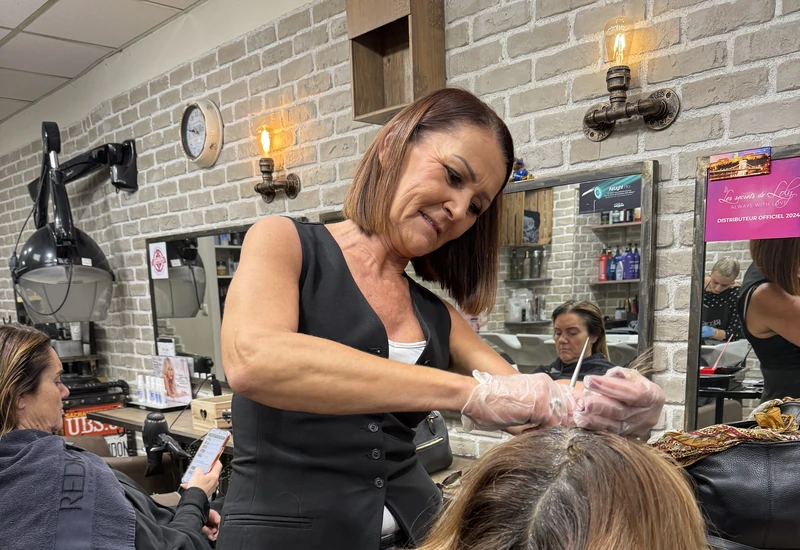
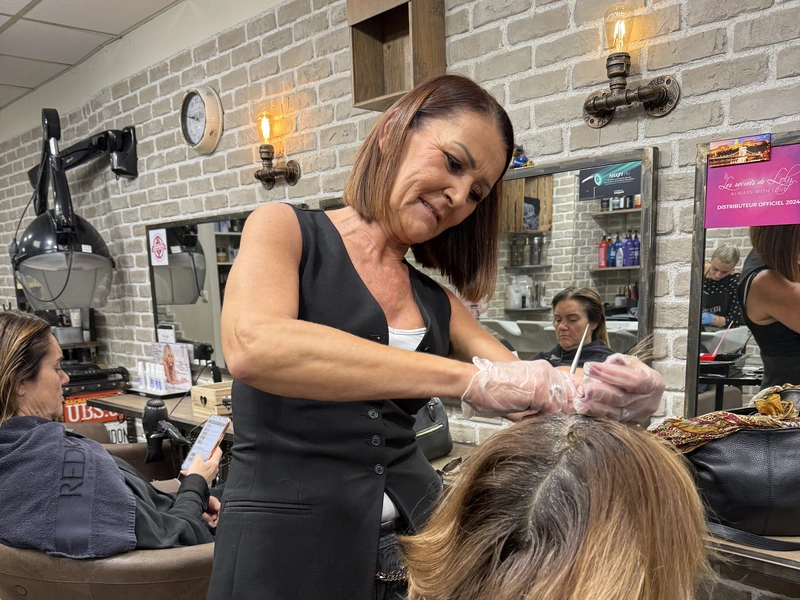
fix(assets): version image URLs to bypass browser cache and serve HD photos

diff --git a/src/data/services.ts b/src/data/services.ts
@@ -5,7 +5,7 @@ export const SERVICE_CATEGORIES: ServiceCategory[] = [
   {
     id: 'boucles',
     name: 'BOUCLES',
-    image: '/images/prestations/boucles.webp',
+    image: '/images/prestations/boucles-v2.webp',
     title: 'BOUCLES NATURELLES & DÉFINITION',
     description: "Sublimez vos boucles naturelles avec nos soins et coupes sur-mesure spécialement pensés pour révéler leur ressort, leur souplesse et leur brillance éclatante.",
     services: [
@@ -54,7 +54,7 @@ export const SERVICE_CATEGORIES: ServiceCategory[] = [
   {
     id: 'lissage',
     name: 'LISSAGE',
-    image: '/images/prestations/lissage.webp',
+    image: '/images/prestations/lissage-v2.webp',
     title: 'LISSAGE BRÉSILIEN & AU TANIN',
     description: "Offrez à votre chevelure un lissage soyeux, durable et respectueux de la fibre capillaire avec nos protocoles experts sans formol.",
     services: [
@@ -95,7 +95,7 @@ export const SERVICE_CATEGORIES: ServiceCategory[] = [
   {
     id: 'crepus',
     name: 'CRÉPUS',
-    image: '/images/prestations/crepus.webp',
+    image: '/images/prestations/crepus-v2.webp',
     title: 'CHEVEUX CRÉPUS & TEXTURÉS',
     description: "Des soins d'exception hydratants et nourrissants, adaptés à la délicatesse et à la richesse des cheveux texturés type 4.",
     services: [
@@ -136,7 +136,7 @@ export const SERVICE_CATEGORIES: ServiceCategory[] = [
   {
     id: 'ondulations',
     name: 'ONDULATIONS',
-    image: '/images/prestations/ondulations.webp',
+    image: '/images/prestations/ondulations-v2.webp',
     title: 'ONDULATIONS & EFFET WAVY',
     description: "Des ondulations souples, lumineuses et pleines de mouvement pour un effet wavy naturel, glamour et sophistiqué.",
     services: [

diff --git a/src/components/home/HeroSection.tsx b/src/components/home/HeroSection.tsx
@@ -21,7 +21,7 @@ export default function HeroSection() {
             className="group relative h-[360px] sm:h-[460px] md:h-[560px] lg:h-[620px] rounded-2xl sm:rounded-3xl overflow-hidden border border-gold-500/25 shadow-2xl shadow-black/70 bg-olive-900"
           >
             <Image
-              src="/images/hero/hero-left.webp"
+              src="/images/hero/hero-left-v2.webp"
               alt="Coiffure lissage et ondulations blondes - Salon Tendance Attitud"
               fill
               priority
@@ -40,7 +40,7 @@ export default function HeroSection() {
             className="group relative h-[360px] sm:h-[460px] md:h-[560px] lg:h-[620px] rounded-2xl sm:rounded-3xl overflow-hidden border border-gold-400/40 shadow-2xl shadow-black/80 bg-olive-900"
           >
             <Image
-              src="/images/hero/hero-center.webp"
+              src="/images/hero/hero-center-v2.webp"
               alt="Nathalie devant le salon de coiffure Tendance Attitud à Allauch"
               fill
               priority
@@ -76,7 +76,7 @@ export default function HeroSection() {
             className="group relative h-[360px] sm:h-[460px] md:h-[560px] lg:h-[620px] rounded-2xl sm:rounded-3xl overflow-hidden border border-gold-500/25 shadow-2xl shadow-black/70 bg-olive-900"
           >
             <Image
-              src="/images/hero/hero-right.webp"
+              src="/images/hero/hero-right-v2.webp"
               alt="Coiffure boucles volumineuses et naturelles - Salon Tendance Attitud"
               fill
               priority

diff --git a/src/components/home/AboutSection.tsx b/src/components/home/AboutSection.tsx
@@ -58,7 +58,7 @@ export default function AboutSection() {
             {/* Main Team Photo */}
             <div className="relative ml-auto w-full sm:w-[85%] aspect-[4/5] rounded-2xl sm:rounded-3xl overflow-hidden border border-gold-400/25 shadow-2xl shadow-black/80 bg-olive-900 group">
               <Image
-                src="/images/salon/team.webp"
+                src="/images/salon/team-v2.webp"
                 alt="L'équipe de coiffeuses du Salon Tendance Attitud à Allauch avec Nathalie"
                 fill
                 sizes="(max-width: 640px) 100vw, (max-width: 1024px) 85vw, 600px"
@@ -71,7 +71,7 @@ export default function AboutSection() {
             {/* Inset Overlapping Salon Interior Photo */}
             <div className="absolute -bottom-6 -left-4 sm:-bottom-8 sm:-left-8 w-[62%] sm:w-[56%] aspect-[16/11] rounded-2xl sm:rounded-3xl overflow-hidden border-2 border-gold-400/50 shadow-[0_16px_40px_rgba(0,0,0,0.9)] bg-olive-900 z-10 transition-transform duration-300 hover:scale-105 group">
               <Image
-                src="/images/salon/interior.webp"
+                src="/images/salon/interior-v2.webp"
                 alt="Intérieur moderne du salon de coiffure Tendance Attitud à Allauch avec miroirs dorés"
                 fill
                 sizes="(max-width: 640px) 60vw, (max-width: 1024px) 45vw, 360px"

diff --git a/src/components/home/InstagramSection.tsx b/src/components/home/InstagramSection.tsx
@@ -15,19 +15,19 @@ interface InstagramPost {
 const INSTAGRAM_POSTS: InstagramPost[] = [
   {
     id: 'post-1',
-    image: '/images/instagram/insta-1.webp',
+    image: '/images/instagram/insta-1-v2.webp',
     alt: 'Transformation capillaire boucles et texture naturelle - Tendance Attitud Allauch',
     caption: 'Sublimation des boucles naturelles & diagnostic personnalisé ✨',
   },
   {
     id: 'post-2',
-    image: '/images/instagram/insta-2.webp',
+    image: '/images/instagram/insta-2-v2.webp',
     alt: 'Soin profond Tokio Inkarami et lissage haute brillance - Tendance Attitud Allauch',
     caption: 'Éclat absolu et soin réparateur haute précision 💫',
   },
   {
     id: 'post-3',
-    image: '/images/instagram/insta-3.webp',
+    image: '/images/instagram/insta-3-v2.webp',
     alt: 'Coupe et mise en forme sur-mesure au salon Tendance Attitud',
     caption: 'Coiffage et révélation de matière au salon 💛',
   },

diff --git a/tests/assets.test.ts b/tests/assets.test.ts
@@ -18,6 +18,18 @@ describe('Optimized assets', () => {
     'public/images/instagram/insta-2.webp',
     'public/images/instagram/insta-3.webp',
     'public/images/map-mockup.webp',
+    'public/images/hero/hero-left-v2.webp',
+    'public/images/hero/hero-center-v2.webp',
+    'public/images/hero/hero-right-v2.webp',
+    'public/images/prestations/boucles-v2.webp',
+    'public/images/prestations/lissage-v2.webp',
+    'public/images/prestations/crepus-v2.webp',
+    'public/images/prestations/ondulations-v2.webp',
+    'public/images/salon/team-v2.webp',
+    'public/images/salon/interior-v2.webp',
+    'public/images/instagram/insta-1-v2.webp',
+    'public/images/instagram/insta-2-v2.webp',
+    'public/images/instagram/insta-3-v2.webp',
   ];
 
   it.each(requiredImages)('file %s exists and has non-zero size', (relPath) => {

diff --git a/tests/InstagramSection.test.tsx b/tests/InstagramSection.test.tsx
@@ -17,9 +17,9 @@ describe('InstagramSection Component', () => {
     const images = screen.getAllByRole('img');
     expect(images.length).toBe(3);
 
-    expect(images[0].getAttribute('src')).toContain('insta-1.webp');
-    expect(images[1].getAttribute('src')).toContain('insta-2.webp');
-    expect(images[2].getAttribute('src')).toContain('insta-3.webp');
+    expect(images[0].getAttribute('src')).toMatch(/insta-1(-v2)?\.webp/);
+    expect(images[1].getAttribute('src')).toMatch(/insta-2(-v2)?\.webp/);
+    expect(images[2].getAttribute('src')).toMatch(/insta-3(-v2)?\.webp/);
 
     // All links open in new tab securely
     const links = screen.getAllByRole('link');

diff --git a/tests/HeroSection.test.tsx b/tests/HeroSection.test.tsx
@@ -16,8 +16,8 @@ describe('HeroSection Component', () => {
     const images = screen.getAllByRole('img');
     expect(images.length).toBeGreaterThanOrEqual(3);
     const srcs = images.map((img) => img.getAttribute('src'));
-    expect(srcs.some((s) => s?.includes('hero-left.webp'))).toBe(true);
-    expect(srcs.some((s) => s?.includes('hero-center.webp'))).toBe(true);
-    expect(srcs.some((s) => s?.includes('hero-right.webp'))).toBe(true);
+    expect(srcs.some((s) => s?.includes('hero-left'))).toBe(true);
+    expect(srcs.some((s) => s?.includes('hero-center'))).toBe(true);
+    expect(srcs.some((s) => s?.includes('hero-right'))).toBe(true);
   });
 });

diff --git a/tests/AboutSection.test.tsx b/tests/AboutSection.test.tsx
@@ -23,8 +23,8 @@ describe('AboutSection Component', () => {
 
     expect(teamImg).toBeInTheDocument();
     expect(interiorImg).toBeInTheDocument();
-    expect(teamImg.getAttribute('src')).toContain('team.webp');
-    expect(interiorImg.getAttribute('src')).toContain('interior.webp');
+    expect(teamImg.getAttribute('src')).toMatch(/team(-v2)?\.webp/);
+    expect(interiorImg.getAttribute('src')).toMatch(/interior(-v2)?\.webp/);
   });
 
   it('highlights salon expertise and values', () => {

diff --git a/src/app/layout.tsx b/src/app/layout.tsx
@@ -39,7 +39,7 @@ export const metadata: Metadata = {
     type: 'website',
     images: [
       {
-        url: '/images/hero/hero-center.webp',
+        url: '/images/hero/hero-center-v2.webp',
         width: 1200,
         height: 630,
         alt: 'Salon Tendance Attitud Allauch',

diff --git a/scripts/generate_hd_assets.py b/scripts/generate_hd_assets.py
@@ -1,0 +1,91 @@
+import os
+from PIL import Image, ImageOps
+import pillow_heif
+
+pillow_heif.register_heif_opener()
+
+BASE_DIR = os.path.abspath(os.path.join(os.path.dirname(__file__), '..'))
+PHOTOS_DIR = os.path.join(BASE_DIR, 'public', 'images', 'photos')
+IMAGES_DIR = os.path.join(BASE_DIR, 'public', 'images')
+
+ASSET_MAP = {
+    # Hero triptych (aspect ~ 8:11, target: 800x1100)
+    'hero/hero-left': {'src': '6.jpeg', 'size': (800, 1100), 'crop_type': 'center'},
+    'hero/hero-center': {'src': '17.HEIC', 'size': (800, 1100), 'crop_type': 'center'},
+    'hero/hero-right': {'src': '28.jpg', 'size': (800, 1100), 'crop_type': 'center'},
+
+    # Prestations circular categories (1:1 square, target: 600x600)
+    'prestations/boucles': {'src': '40.jpg', 'size': (600, 600), 'crop_type': 'square'},
+    'prestations/lissage': {'src': '3.HEIC', 'size': (600, 600), 'crop_type': 'square'},
+    'prestations/crepus': {'src': '22.HEIC', 'size': (600, 600), 'crop_type': 'square'},
+    'prestations/ondulations': {'src': '2.jpeg', 'size': (600, 600), 'crop_type': 'square'},
+
+    # About / Salon (team: 900x1125, interior: 800x533)
+    'salon/team': {'src': '19.HEIC', 'size': (900, 1125), 'crop_type': 'center'},
+    'salon/interior': {'src': '23.HEIC', 'size': (800, 600), 'crop_type': 'center'},
+
+    # Instagram feed (square: 600x600)
+    'instagram/insta-1': {'src': '27.jpg', 'size': (600, 600), 'crop_type': 'square'},
+    'instagram/insta-2': {'src': '34.JPG', 'size': (600, 600), 'crop_type': 'square'},
+    'instagram/insta-3': {'src': '31.jpg', 'size': (600, 600), 'crop_type': 'square'},
+}
+
+def process_image(src_filename, target_size, crop_type='center'):
+    src_path = os.path.join(PHOTOS_DIR, src_filename)
+    if not os.path.exists(src_path):
+        raise FileNotFoundError(f"Missing source photo: {src_path}")
+
+    with Image.open(src_path) as im:
+        # Crucial: orient correctly with EXIF tags
+        im = ImageOps.exif_transpose(im)
+        im = im.convert('RGB')
+        
+        tw, th = target_size
+        target_ratio = tw / th
+        orig_w, orig_h = im.size
+        orig_ratio = orig_w / orig_h
+
+        if crop_type == 'square':
+            side = min(orig_w, orig_h)
+            left = (orig_w - side) // 2
+            top = (orig_h - side) // 3  # slightly higher for hair focus
+            box = (left, top, left + side, top + side)
+            cropped = im.crop(box)
+        else:
+            if orig_ratio > target_ratio:
+                # Image is wider than needed -> crop horizontal sides
+                new_w = int(orig_h * target_ratio)
+                left = (orig_w - new_w) // 2
+                box = (left, 0, left + new_w, orig_h)
+            else:
+                # Image is taller than needed -> crop top/bottom
+                new_h = int(orig_w / target_ratio)
+                top = int((orig_h - new_h) * 0.25)  # slight bias to top for head/hair
+                top = max(0, min(top, orig_h - new_h))
+                box = (0, top, orig_w, top + new_h)
+            cropped = im.crop(box)
+
+        resized = cropped.resize((tw, th), Image.Resampling.LANCZOS)
+        return resized
+
+def main():
+    print("Generating High-Resolution WebP Assets from public/images/photos/...")
+    for rel_key, cfg in ASSET_MAP.items():
+        img = process_image(cfg['src'], cfg['size'], cfg['crop_type'])
+        
+        # Save both original name and -v2 name for cache-busting
+        dir_name = os.path.dirname(os.path.join(IMAGES_DIR, rel_key))
+        os.makedirs(dir_name, exist_ok=True)
+        
+        out_v1 = os.path.join(IMAGES_DIR, f"{rel_key}.webp")
+        out_v2 = os.path.join(IMAGES_DIR, f"{rel_key}-v2.webp")
+        
+        img.save(out_v1, 'WEBP', quality=92, method=6)
+        img.save(out_v2, 'WEBP', quality=92, method=6)
+        
+        print(f"Generated: {rel_key}.webp & {rel_key}-v2.webp ({img.size}) from {cfg['src']}")
+
+    print("\nAll HD assets successfully generated!")
+
+if __name__ == '__main__':
+    main()

diff --git a/scripts/make_gallery.py b/scripts/make_gallery.py
@@ -1,0 +1,49 @@
+import os, glob
+from PIL import Image
+import pillow_heif
+
+pillow_heif.register_heif_opener()
+os.makedirs('public/thumbs', exist_ok=True)
+
+files = sorted(glob.glob('public/images/photos/*.*'))
+html = [
+    '<!DOCTYPE html>',
+    '<html>',
+    '<head>',
+    '  <meta charset="utf-8">',
+    '  <title>Galerie Photos Salon Tendance Attitud</title>',
+    '  <style>',
+    '    body { background: #162013; color: #FAF7F2; font-family: sans-serif; padding: 20px; }',
+    '    h1 { color: #E5C368; }',
+    '    .grid { display: grid; grid-template-columns: repeat(auto-fill, minmax(180px, 1fr)); gap: 16px; }',
+    '    .card { background: #23301F; border-radius: 12px; padding: 10px; text-align: center; border: 1px solid rgba(229,195,104,0.2); }',
+    '    img { width: 100%; height: 200px; object-fit: cover; border-radius: 8px; }',
+    '    .name { margin-top: 8px; font-weight: bold; color: #E5C368; }',
+    '  </style>',
+    '</head>',
+    '<body>',
+    '  <h1>Galerie des 42 Photos Originales</h1>',
+    '  <div class="grid">'
+]
+
+for f in files:
+    name = os.path.basename(f)
+    num = os.path.splitext(name)[0]
+    thumb_path = f'public/thumbs/{num}.jpg'
+    try:
+        with Image.open(f) as img:
+            img = img.convert('RGB')
+            img.thumbnail((350, 350))
+            img.save(thumb_path, 'JPEG', quality=85)
+        html.append(f'    <div class="card"><img src="/thumbs/{num}.jpg"><div class="name">{name}</div></div>')
+    except Exception as e:
+        print(f'{name}: {e}')
+
+html.append('  </div>')
+html.append('</body>')
+html.append('</html>')
+
+with open('public/gallery.html', 'w', encoding='utf-8') as out:
+    out.write('\n'.join(html))
+
+print('Gallery generated successfully at public/gallery.html')
